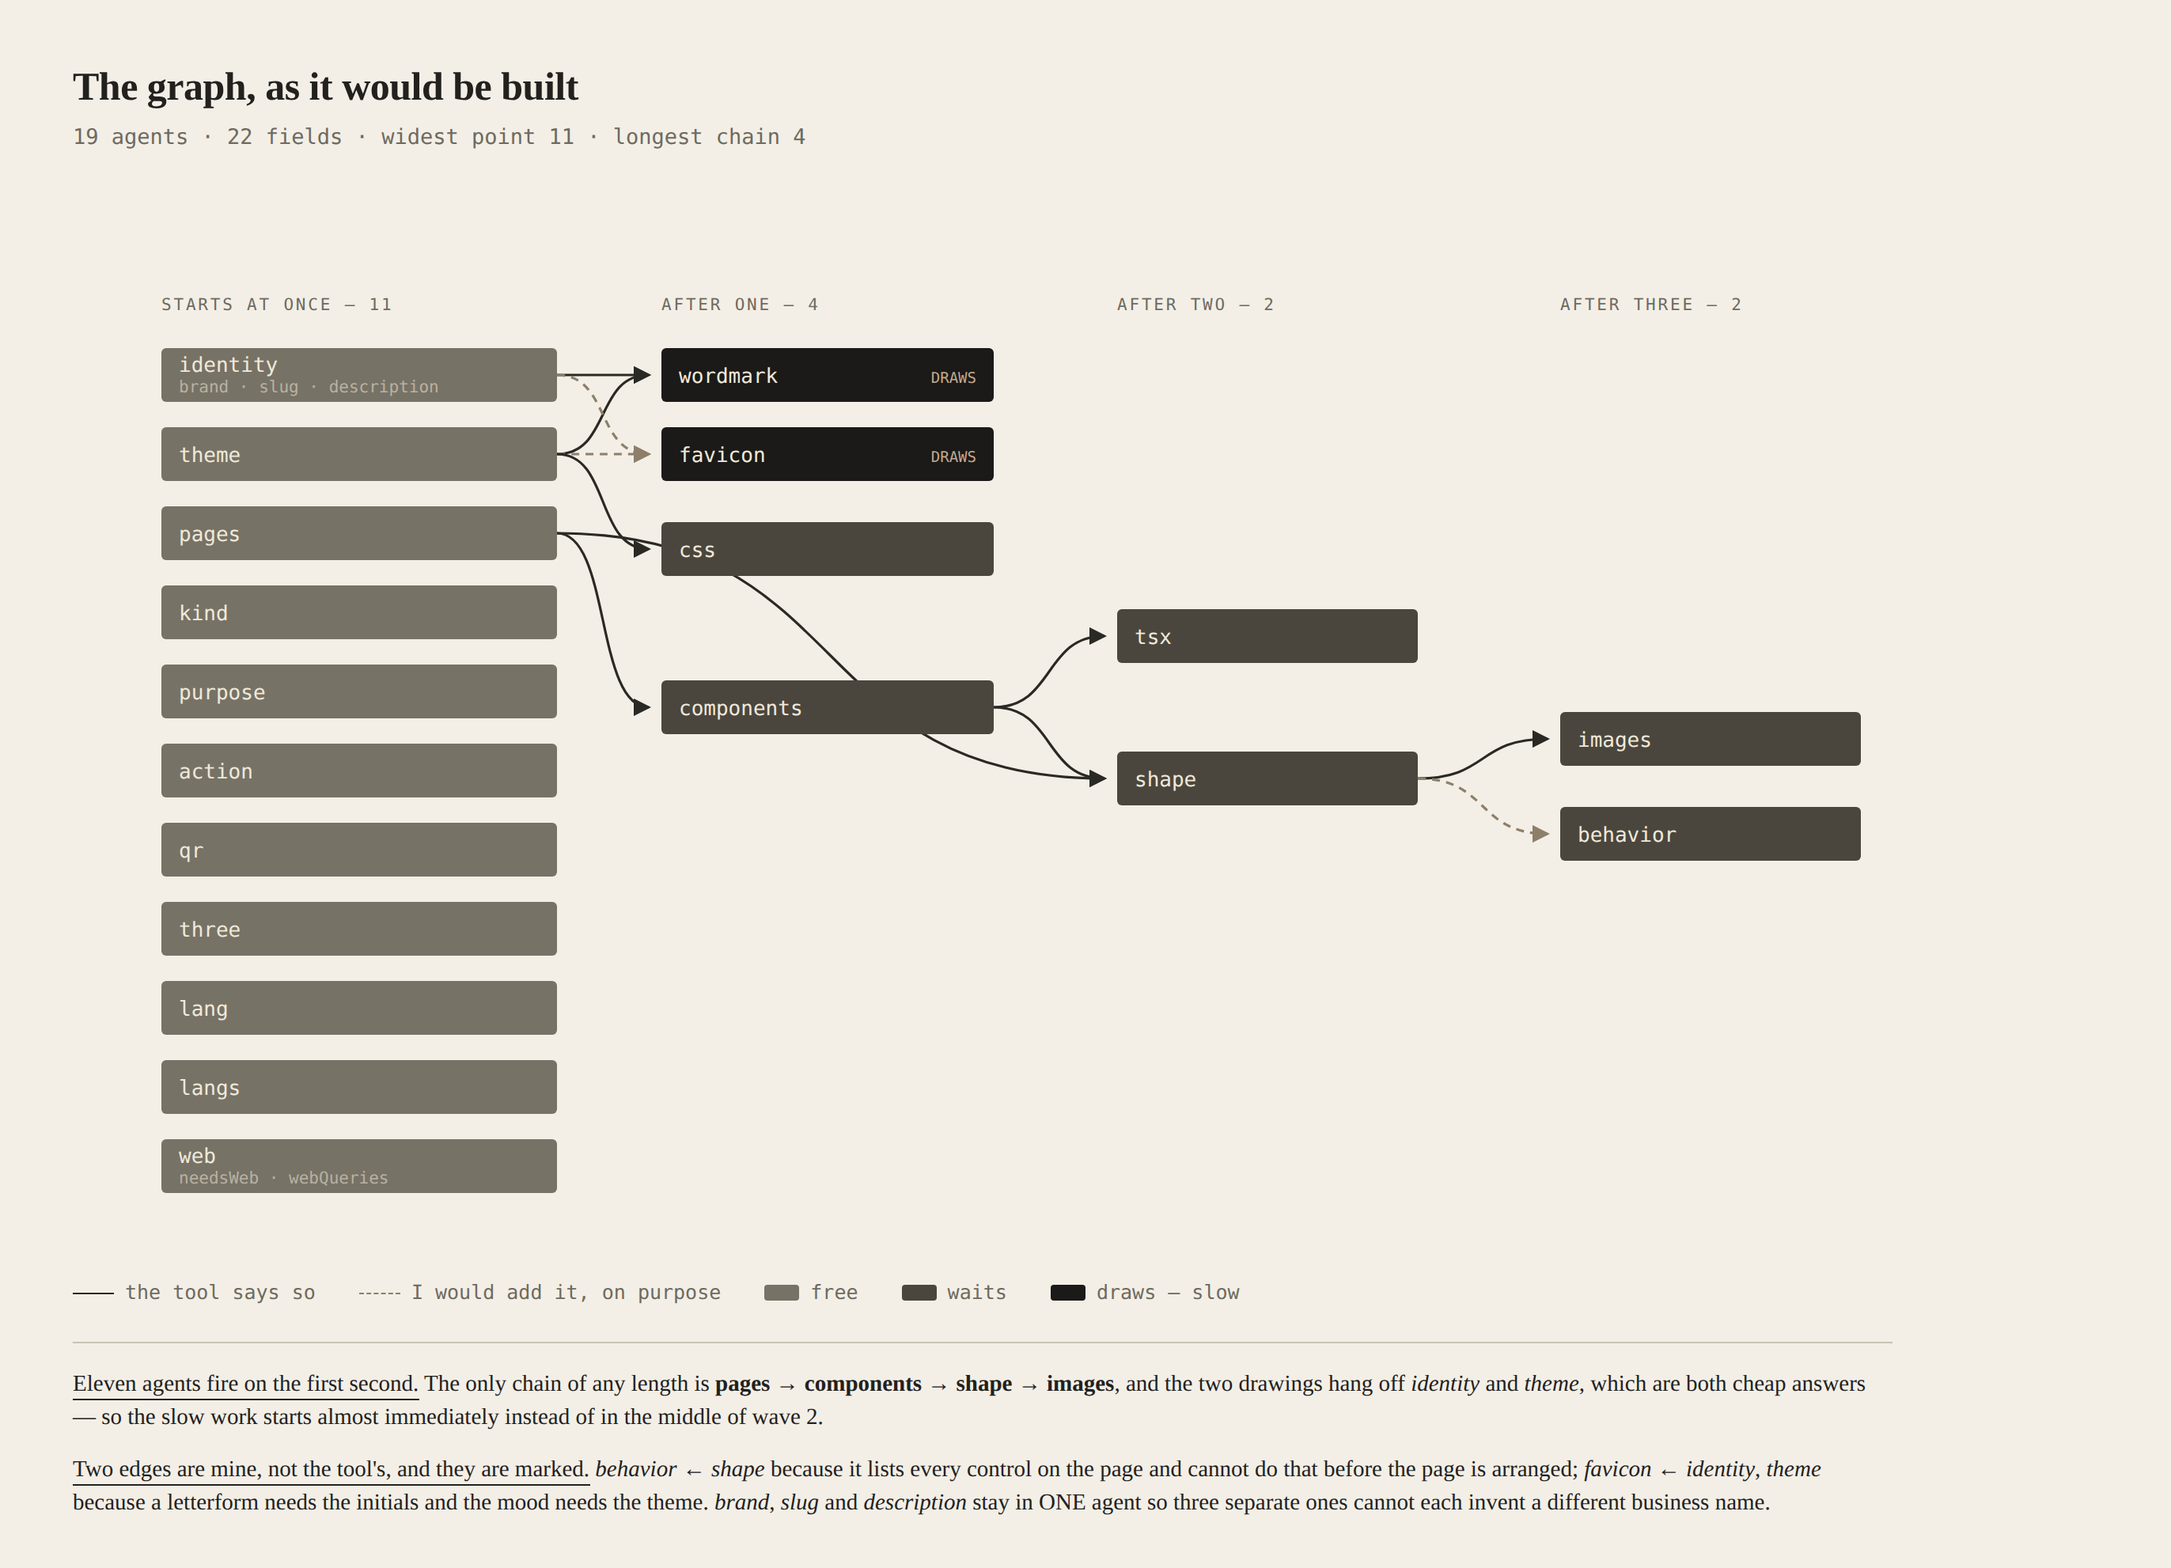
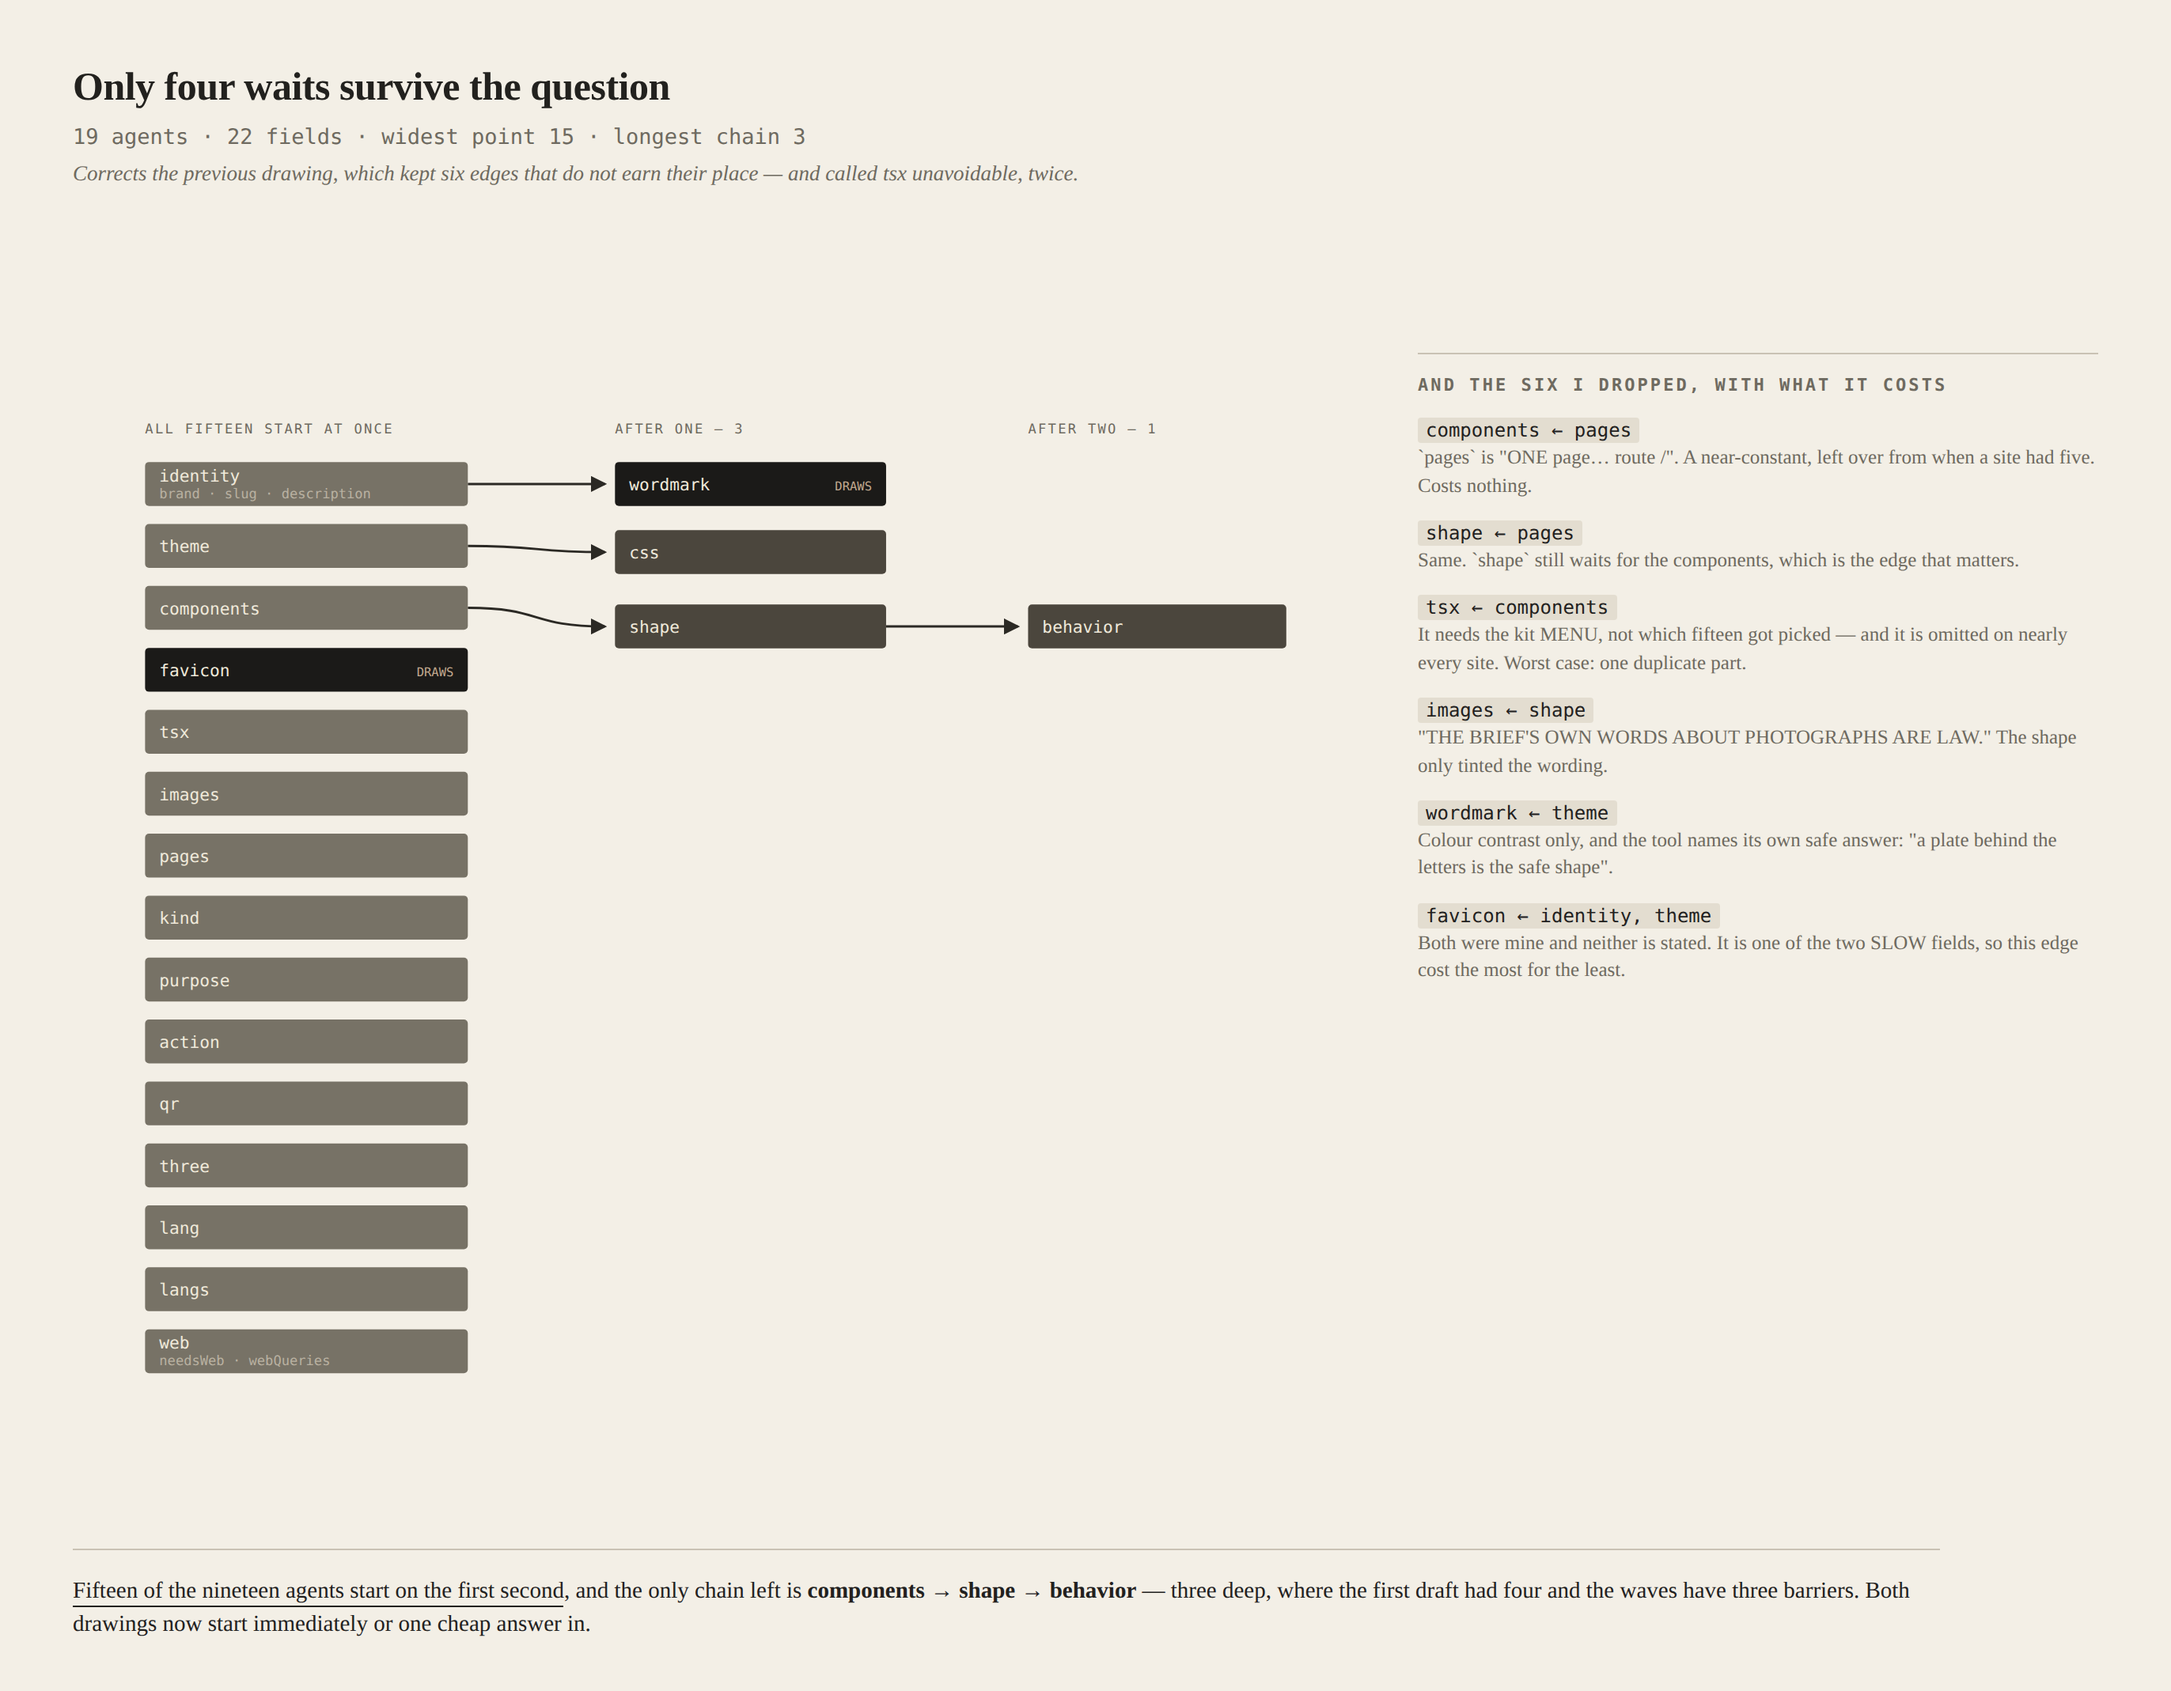
Re-check the graph's edges: four survive, six do not
The owner asked a second time whether those fields really need to wait.
Six of the ten edges do not earn their place, and the lean graph is
FIFTEEN of nineteen agents starting at once with one chain of three
(components -> shape -> behavior). docs/edits/design-graph-shape.png
redrawn, with each dropped edge and its cost listed beside it.

Dropped, each against the field's own words: components<-pages and
shape<-pages (pages is "ONE page... route /", a near-constant left over
from when a site had five, and it sat at the head of the longest chain);
tsx<-components (it needs the kit MENU rather than which fifteen were
picked, and its own field says OMIT ENTIRELY for nearly every site --
worst case one duplicate part); images<-shape (THE BRIEF'S OWN WORDS ABOUT
PHOTOGRAPHS ARE LAW; shape only tinted the wording); wordmark<-theme
(contrast only, and the tool names its own safe answer, a plate behind the
letters); favicon<-identity,theme (both mine, neither stated, and it is
one of the two SLOW fields so the edge cost most and bought least).

Kept: shape<-components (it arranges a list it must have), css<-theme (it
IS the delta), wordmark<-identity (cannot set a name not given), and
behavior<-shape (enumerates what is on the page; real in principle, and
its answer is unused today so a wrong one currently costs nothing).

AND THIS IS THE THIRD CORRECTION TO THE SAME GRAPH -- tsx was called
unavoidable twice. The failure is identical each time: reasoning about what
[…]

diff --git a/docs/owner-notes.md b/docs/owner-notes.md
@@ -4556,3 +4556,38 @@ instead of in the middle of the second wave.
 **Regrouping later is editing that list** — moving names between the `fields`
 arrays, no new code. Which is exactly what stage C would be, once a real build
 has told us which field is the slow one.
+
+## 2026-09-11 — you asked again, and most of those waits weren't real
+
+Six of the ten arrows I drew don't earn their place. Redrawn:
+`docs/edits/design-graph-shape.png` — **fifteen of the nineteen agents now start
+on the first second, and the only chain left is three long.**
+
+**What I dropped, and why each was wrong:**
+
+- **components waiting for pages.** `pages` says "ONE page… one entry: what the
+  site is called, route /". It's a near-constant. This arrow is a leftover from
+  when a site had five pages, and it was sitting at the head of the longest
+  chain doing nothing.
+- **shape waiting for pages.** Same. Shape still waits for the components, which
+  is the arrow that actually matters.
+- **tsx waiting for components.** It needs the kit's *menu*, not which fifteen
+  got picked — and its own field says "OMIT ENTIRELY… the right answer for
+  nearly every site", so it barely ever runs. Worst case if it's wrong: one
+  duplicate part.
+- **images waiting for shape.** The field says "THE BRIEF'S OWN WORDS ABOUT
+  PHOTOGRAPHS ARE LAW". The shape only tinted the wording.
+- **wordmark waiting for theme.** Colour contrast only — and the tool already
+  names its own safe answer, "a plate behind the letters is the safe shape".
+- **favicon waiting for the name and theme.** Both were mine, neither is in the
+  code, and it's one of the two SLOW fields — so that arrow cost the most and
+  bought the least.
+
+**The four that stay:** shape waits for components (it arranges them), css waits
+for the theme (it *is* the bit the theme doesn't give), wordmark waits for the
+name (you can't set a name you haven't got), and behavior waits for the layout.
+
+**Third time I've had to correct this.** I called `tsx` unavoidable twice. The
+pattern is the same each time: I reasoned about what *sounds* like it needs
+something instead of reading what the field actually says. Worth me remembering
+the next time I draw one of these.
